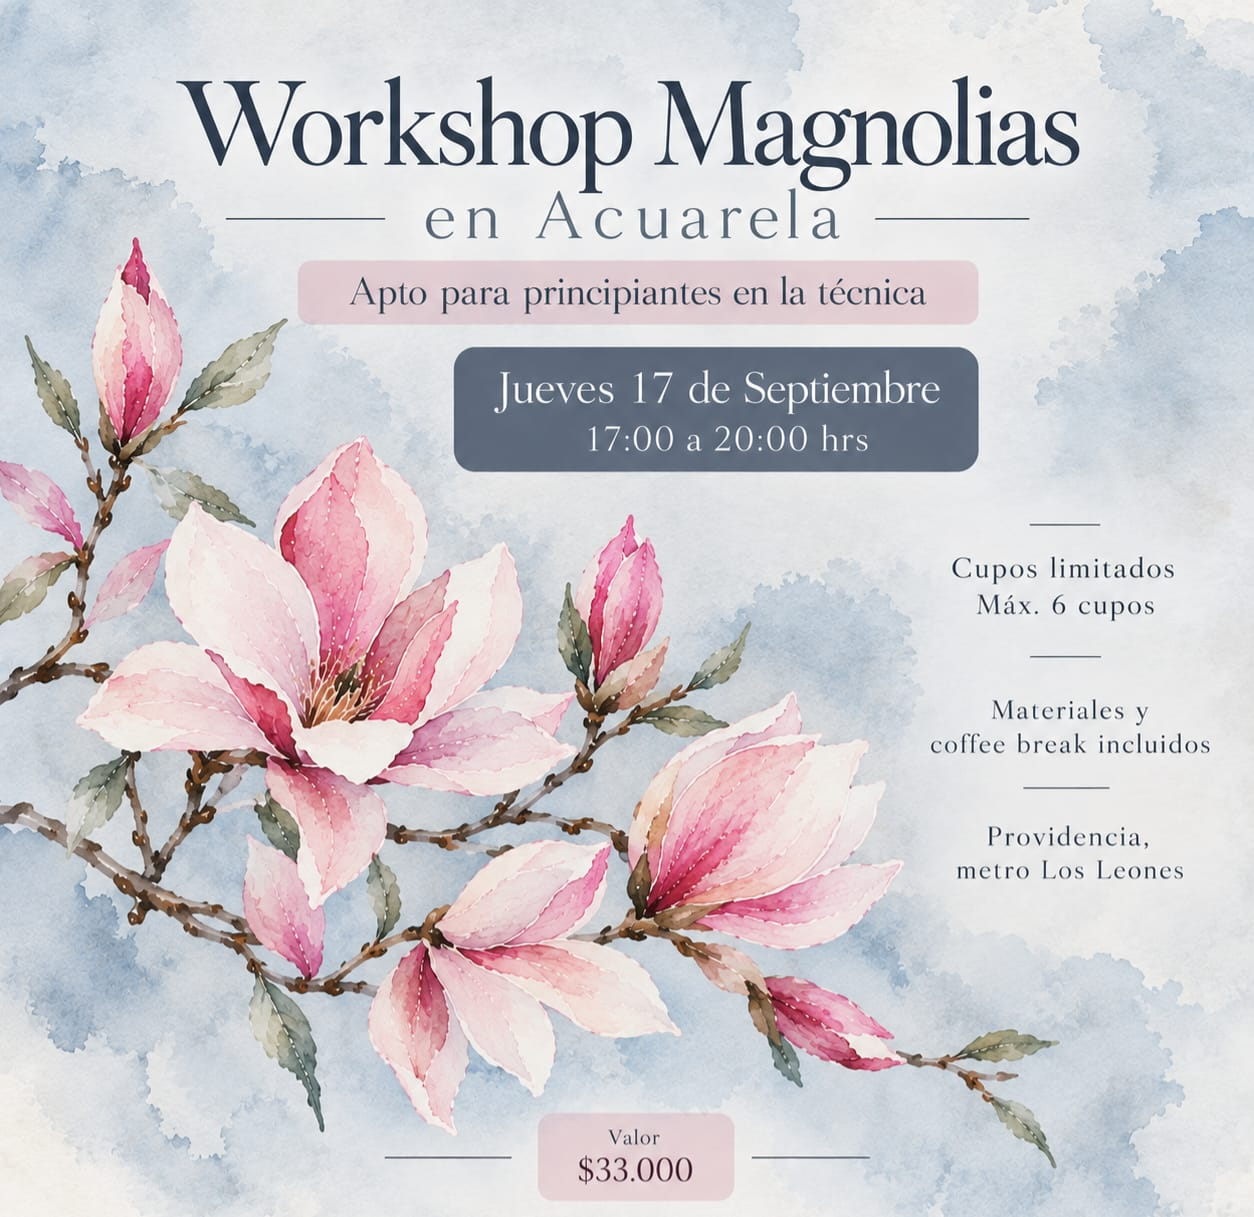
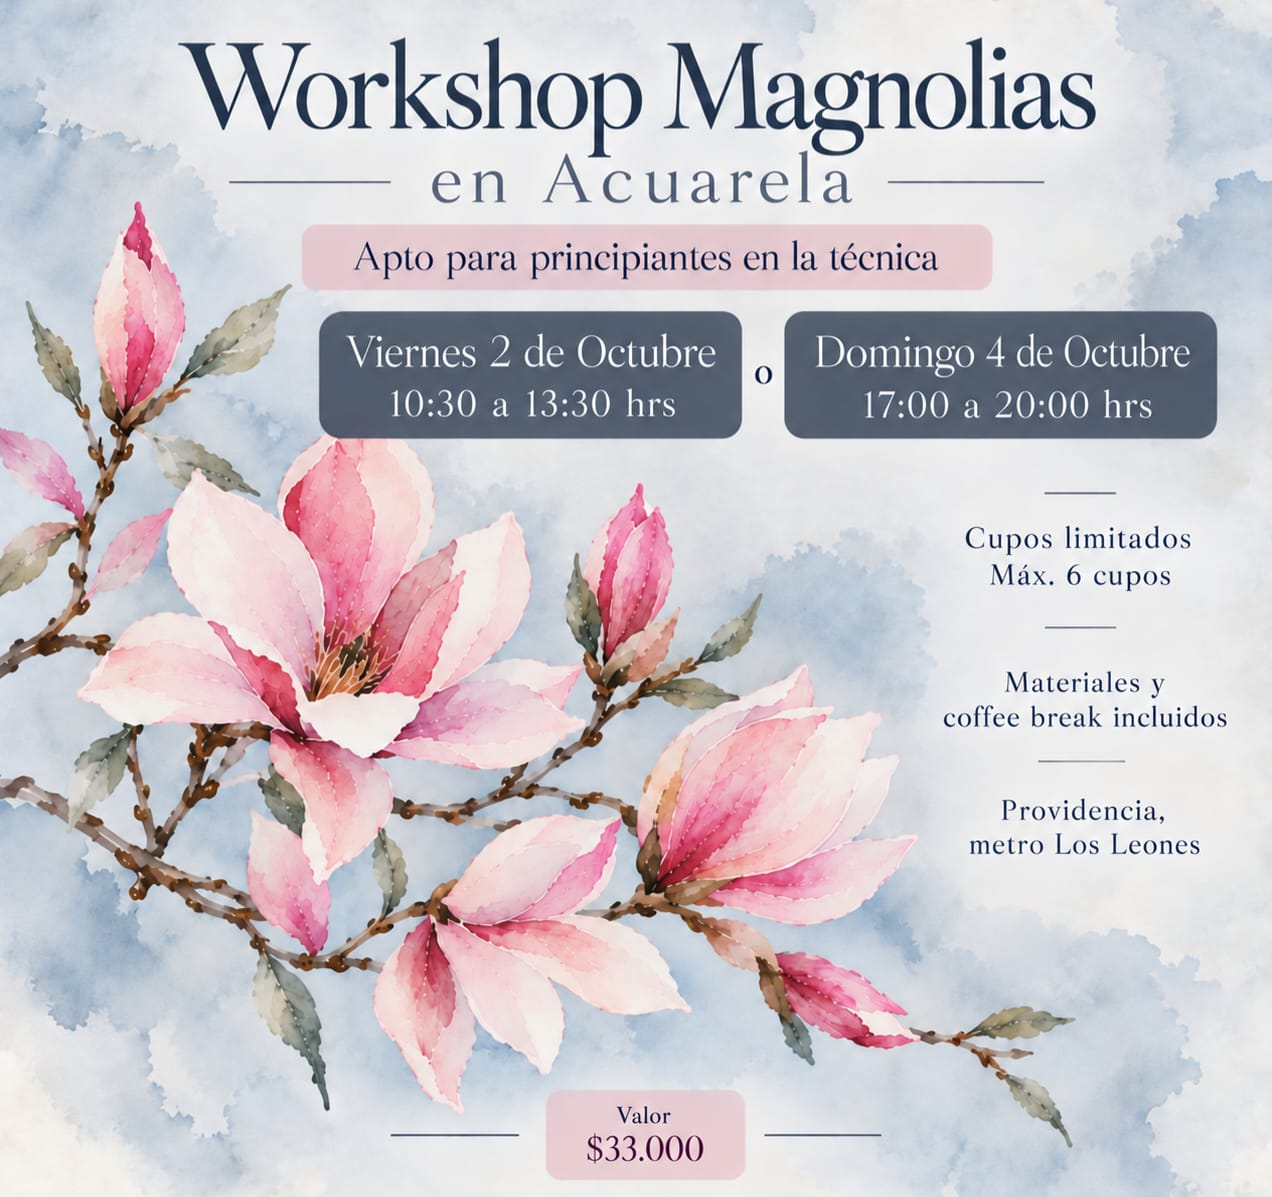
Actualizar workshop Magnolias de octubre

diff --git a/src/lib/constants.ts b/src/lib/constants.ts
@@ -95,13 +95,19 @@ export const WORKSHOPS: Workshop[] = [
     id: 'magnolias',
     slug: 'magnolias',
     name: 'Workshop Magnolias en Acuarela',
-    tagline: 'Sesión única · Apto para principiantes',
-    description: 'Una tarde para pintar magnolias en acuarela, apta para principiantes en la técnica. Materiales y coffee break incluidos, en Providencia (metro Los Leones). Máximo 6 cupos.',
+    tagline: 'Dos fechas disponibles · Apto para principiantes',
+    description: 'Una jornada para pintar magnolias en acuarela, apta para principiantes en la técnica. Elige entre la mañana del viernes o la tarde del domingo. Materiales y coffee break incluidos, en Providencia (metro Los Leones). Máximo 6 cupos.',
     date: '',
     time: '',
     sessions: [
       {
-        date: '2026-09-17',
+        date: '2026-10-02',
+        startTime: '10:30',
+        endTime: '13:30',
+        status: 'available',
+      },
+      {
+        date: '2026-10-04',
         startTime: '17:00',
         endTime: '20:00',
         status: 'available',
@@ -113,11 +119,11 @@ export const WORKSHOPS: Workshop[] = [
     level: 'Apto para principiantes en la técnica',
     image: '/fotos/workshop-magnolias.jpeg',
     imageFit: 'contain',
-    ctaLink: `https://wa.me/${WHATSAPP_NUMBER}?text=${encodeURIComponent('Hola Josefina! Quiero reservar mi cupo en el Workshop Magnolias en Acuarela del jueves 17 de septiembre, de 17:00 a 20:00 hrs.')}`,
+    ctaLink: `https://wa.me/${WHATSAPP_NUMBER}?text=${encodeURIComponent('Hola Josefina! Quiero reservar mi cupo en el Workshop Magnolias en Acuarela. ¿Tienen disponibilidad para el viernes 2 o el domingo 4 de octubre?')}`,
     badge: 'Máximo 6 cupos',
     detailLink: '/talleres/magnolias',
     seoTitle: 'Workshop Magnolias en Acuarela en Providencia | Josefina Fainé',
-    seoDescription: 'Workshop Magnolias en Acuarela: jueves 17 de septiembre de 2026, de 17:00 a 20:00 hrs, en Providencia. Apto para principiantes. Materiales y coffee break incluidos. $33.000.',
+    seoDescription: 'Workshop Magnolias en Acuarela: viernes 2 o domingo 4 de octubre de 2026 en Providencia. Apto para principiantes. Materiales y coffee break incluidos. $33.000.',
     heading: 'Pinta magnolias en acuarela',
     incluye: ['Materiales para la sesión', 'Coffee break'],
   },
